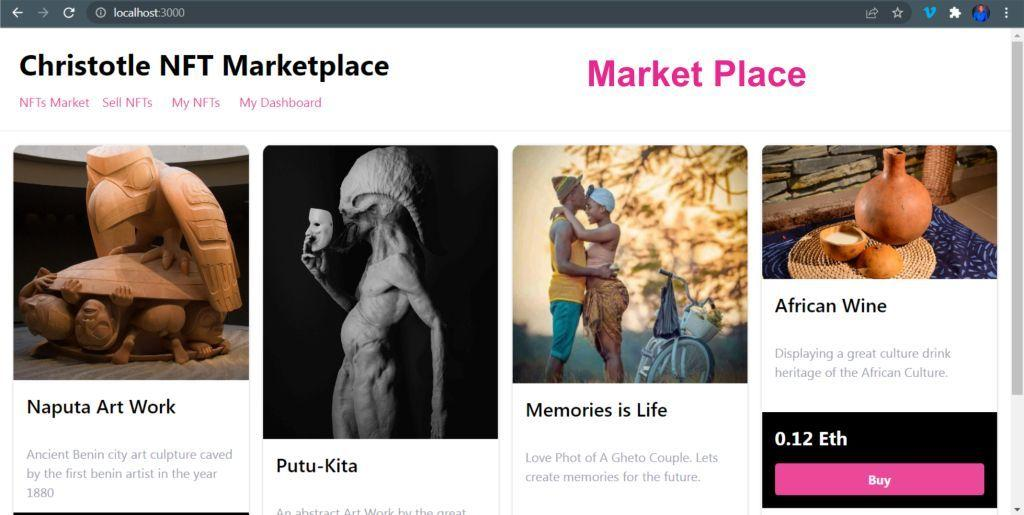
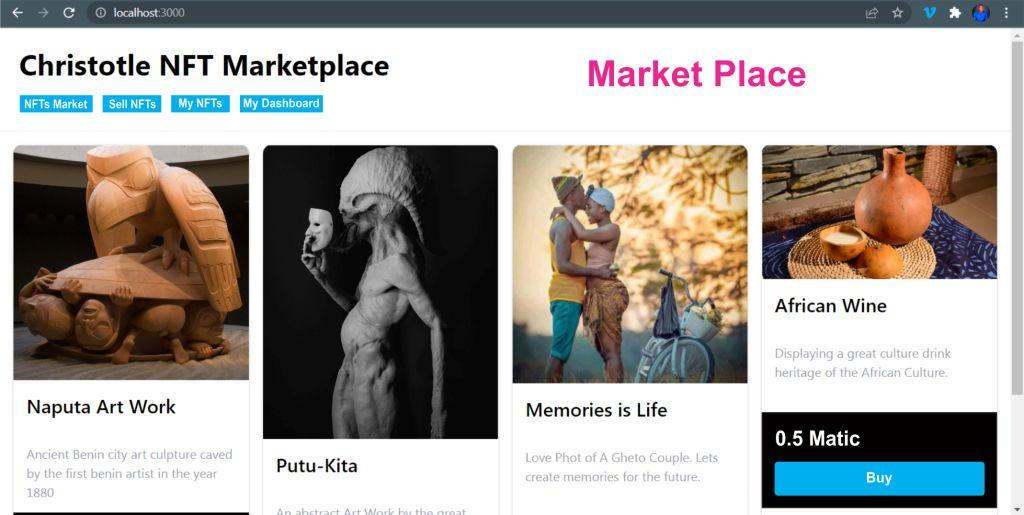
screenshots uddated

Changed region(s): [[0.75, 0.8388, 0.9688, 0.9631], [0.0, 0.1553, 0.3438, 0.2485]]

diff --git a/pages/index.js b/pages/index.js
@@ -25,7 +25,7 @@ export default function Home() {
   
   async function loadNFTs() {  
     
-    const provider = new ethers.providers.JsonRpcProvider()
+    const provider = new ethers.providers.JsonRpcProvider('https://polygon-mumbai.infura.io/v3/bad08557efa143cda112c2ef956cd6d5')
     const tokenContract = new ethers.Contract(nftaddress, NFT.abi, provider)
     const marketContract = new ethers.Contract(nftmarketaddress, Market.abi, provider)
     const data = await marketContract.fetchMarketItems()
@@ -78,8 +78,8 @@ export default function Home() {
                   </div>
                 </div>
                 <div className="p-4 bg-black">
-                  <p className="text-2xl mb-4 font-bold text-white">{nft.price} Eth</p>
-                  <button className="w-full bg-pink-500 text-white font-bold py-2 px-12 rounded" onClick={() => buyNft(nft)}>Buy</button>
+                  <p className="text-2xl mb-4 font-bold text-white">{nft.price} Matic</p>
+                  <button className="w-full bg-blue-500 text-white font-bold py-2 px-12 rounded" onClick={() => buyNft(nft)}>Buy</button>
                 </div>
               </div>
             ))

diff --git a/pages/creator-dashboard.js b/pages/creator-dashboard.js
@@ -61,7 +61,7 @@ export default function CreatorDashboard() {
               <div key={i} className="border shadow rounded-xl overflow-hidden">
                 <img src={nft.image} className="rounded" />
                 <div className="p-4 bg-black">
-                  <p className="text-2xl font-bold text-white">Price - {nft.price} Eth</p>
+                  <p className="text-2xl font-bold text-white">Price - {nft.price} Matic</p>
                 </div>
               </div>
             ))
@@ -79,7 +79,7 @@ export default function CreatorDashboard() {
                     <div key={i} className="border shadow rounded-xl overflow-hidden">
                       <img src={nft.image} className="rounded" />
                       <div className="p-4 bg-black">
-                        <p className="text-2xl font-bold text-white">Price - {nft.price} Eth</p>
+                        <p className="text-2xl font-bold text-white">Price - {nft.price} Matic</p>
                       </div>
                     </div>
                   ))

diff --git a/pages/_app.js b/pages/_app.js
@@ -8,22 +8,22 @@ function Marketplace({ Component, pageProps }) {
         <p className="text-4xl font-bold">Christotle NFT Marketplace</p>
         <div className="flex mt-4">
           <Link href="/">
-            <a className="mr-4 text-pink-500">
+            <a className="mr-4 text-blue-500">
               NFTs Market
             </a>
           </Link>
           <Link href="/create-item">
-            <a className="mr-6 text-pink-500">
+            <a className="mr-6 text-blue-500">
               Sell NFTs
             </a>
           </Link>
           <Link href="/my-assets">
-            <a className="mr-6 text-pink-500">
+            <a className="mr-6 text-blue-500">
               My NFTs
             </a>
           </Link>
           <Link href="/creator-dashboard">
-            <a className="mr-6 text-pink-500">
+            <a className="mr-6 text-blue-500">
               My Dashboard
             </a>
           </Link>

diff --git a/pages/my-assets.js b/pages/my-assets.js
@@ -55,7 +55,7 @@ export default function MyAssets() {
               <div key={i} className="border shadow rounded-xl overflow-hidden">
                 <img src={nft.image} className="rounded" />
                 <div className="p-4 bg-black">
-                  <p className="text-2xl font-bold text-white">Price - {nft.price} Eth</p>
+                  <p className="text-2xl font-bold text-white">Price - {nft.price} Matic</p>
                 </div>
               </div>
             ))

diff --git a/pages/create-item.js b/pages/create-item.js
@@ -105,7 +105,7 @@ export default function CreateItem() {
             <img className="rounded mt-4" width="350" src={fileUrl} />
           )
         }
-        <button onClick={createMarket} className="font-bold mt-4 bg-pink-500 text-white rounded p-4 shadow-lg">
+        <button onClick={createMarket} className="font-bold mt-4 bg-blue-500 text-white rounded p-4 shadow-lg">
           Create Digital Asset
         </button>
       </div>
